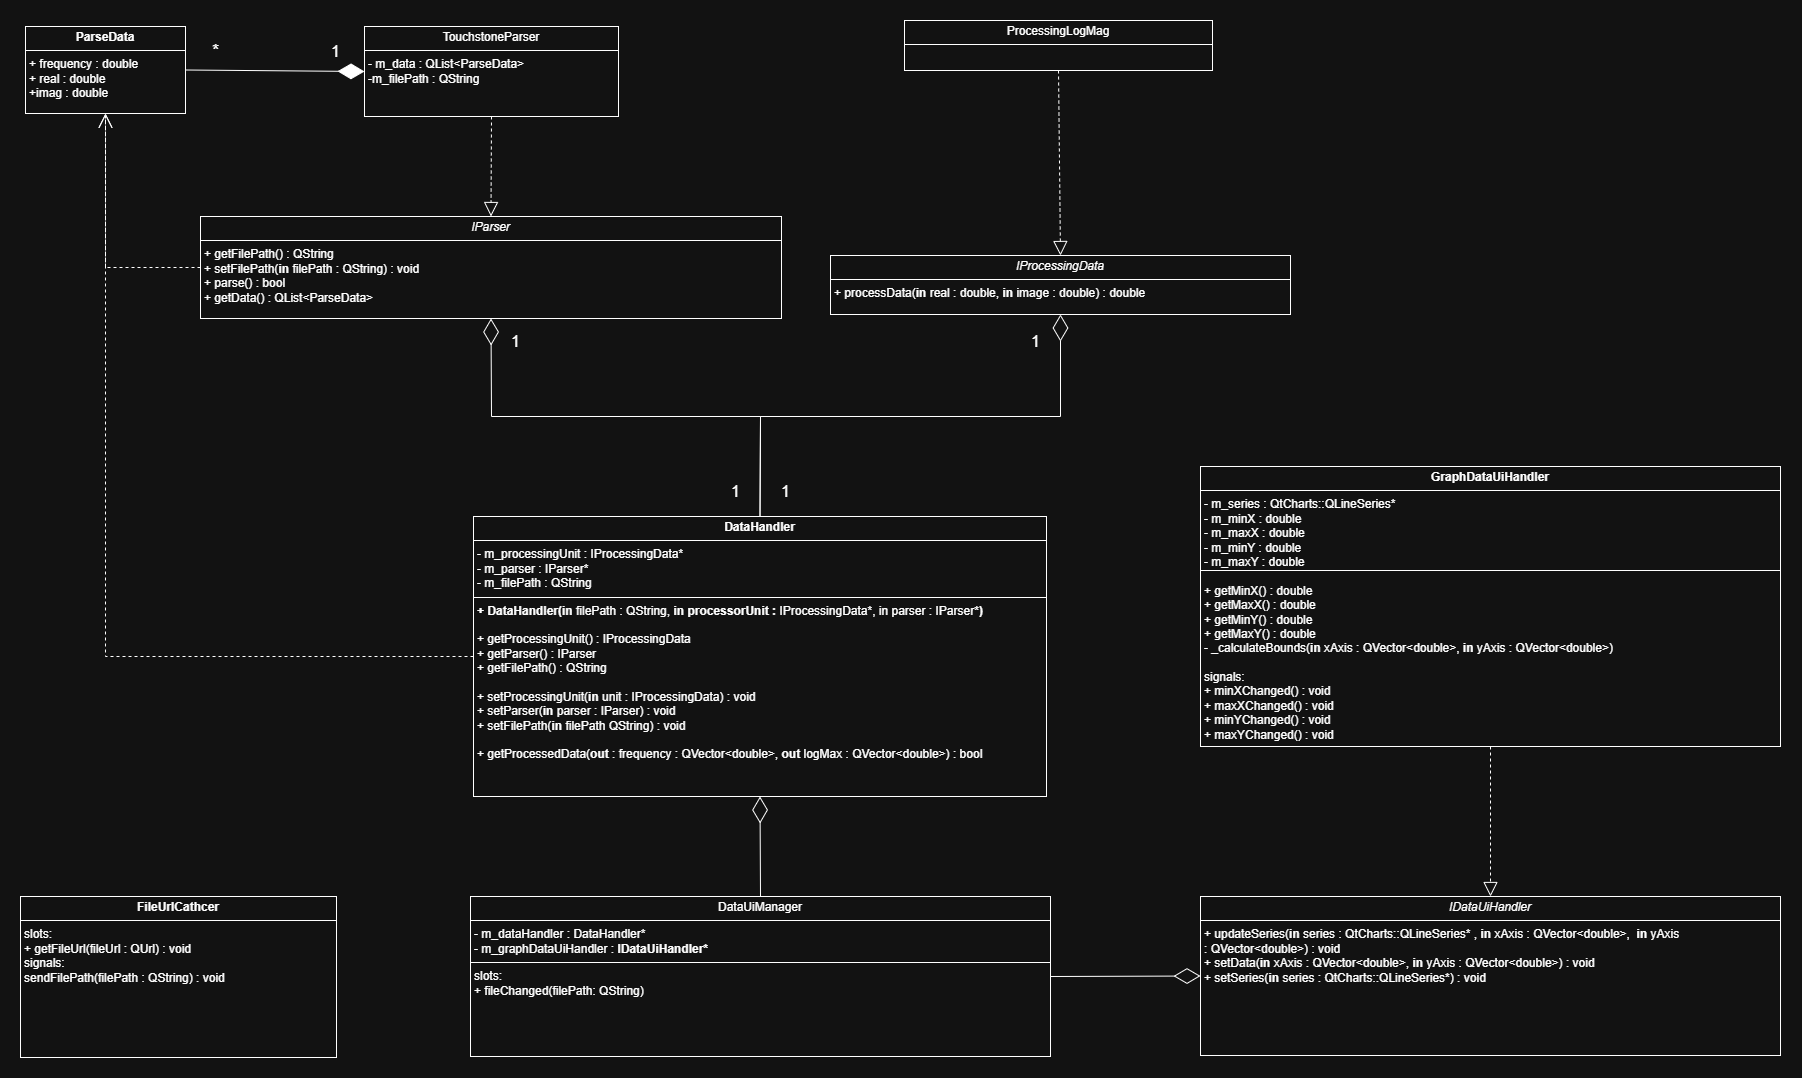
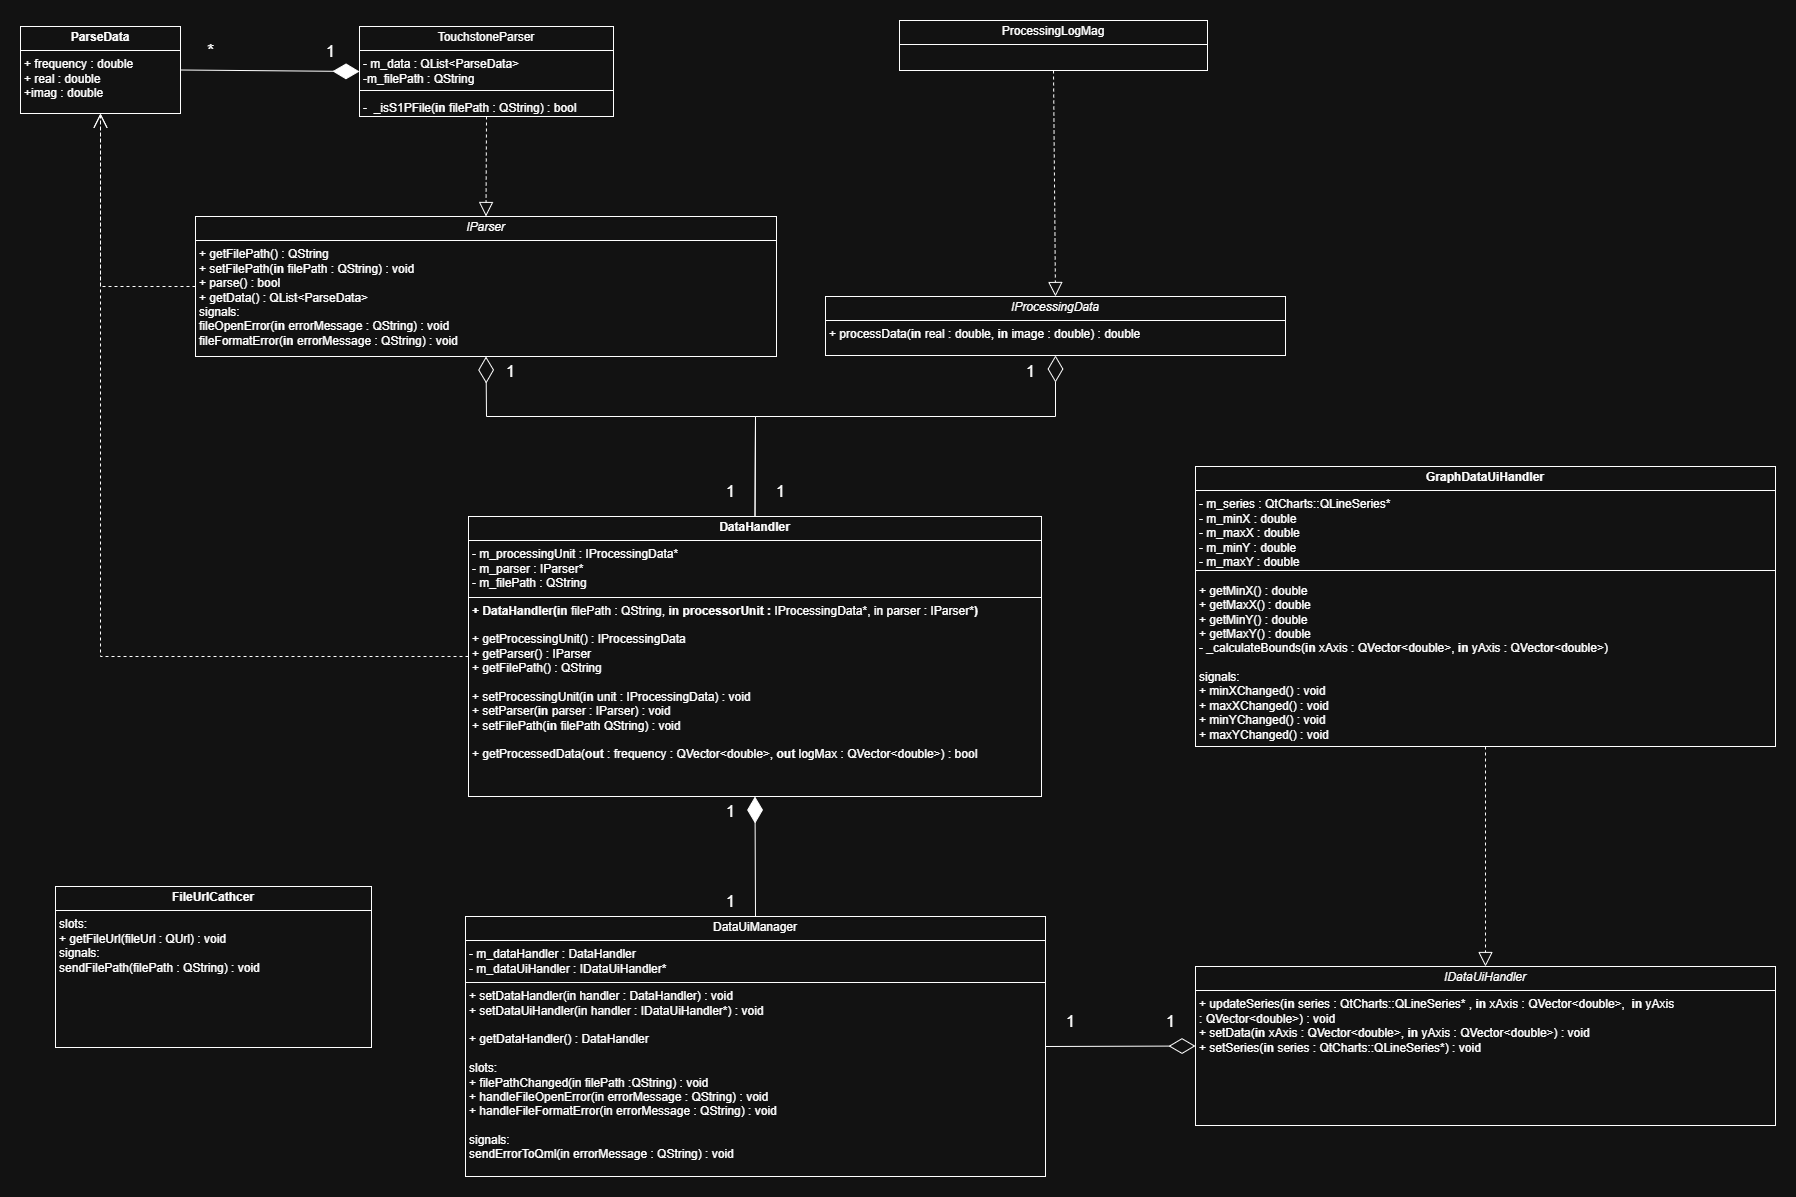
Глобальный рефакторинг и обновлена uml диаграмма :)

diff --git a/main.qml b/main.qml
@@ -57,7 +57,7 @@ ApplicationWindow {
                     objectName: "lineSeries"
                     axisX: axisX
                     axisY: axisY
-                    name: "Data"
+                    name: "Parsed Data"
                 }
 
                 Component.onCompleted: {

diff --git a/TouchstoneParser.cpp b/TouchstoneParser.cpp
@@ -1,19 +1,25 @@
-
 #include <QFile>
-#include <QDebug>
+#include <QFileInfo>
+#include <QTextStream>
 
 #include "TouchstoneParser.h"
 
 bool TouchstoneParser::parse() {
     QFile file(m_filePath);
 
+    if(!_isS1PFile(m_filePath)) {
+        emit fileFormatError("Incorrect file format: You can download only S1P files.");
+        return false;
+    }
+
     if(!file.open(QIODevice::ReadOnly | QIODevice::Text)) {
-        emit fileOpenError("can't open the file: " + m_filePath);
+        emit fileOpenError("Can't open the file: " + m_filePath);
         return false;
     }
 
     m_data.clear();
 
+    int lineNumber = 0;
     QTextStream in(&file);
     while (!in.atEnd()) {
         QString line = in.readLine();
@@ -23,7 +29,7 @@ bool TouchstoneParser::parse() {
 
         QStringList parts = line.split(' ', Qt::SkipEmptyParts);
         if (parts.size() != 3) {
-            emit fileFormatError("incorrect file format: in the line: " + line);
+            emit fileFormatError("Incorrect file format: in the line " + QString::number(lineNumber) + ": \n" + line);
             return false;
         }
 
@@ -33,7 +39,7 @@ bool TouchstoneParser::parse() {
         double imag = parts[2].toDouble(&convertImag);
 
         if(!convertFrequency || !convertReal || !convertImag) {
-            emit fileFormatError("Incorrect file format: could not be converted to a number in a string: " + line);
+            emit fileFormatError("Incorrect file format: can't convert to a number in line " + QString::number(lineNumber) + ": \n" + line);
             return false;
         }
 
@@ -41,8 +47,17 @@ bool TouchstoneParser::parse() {
                           real,
                           imag});
 
+        ++lineNumber;
     }
 
     file.close();
     return true;
+}
+
+bool TouchstoneParser::_isS1PFile(const QString& filePath) {
+    QFileInfo fileInfo(filePath);
+
+    QString extension = fileInfo.suffix().toLower();
+
+    return (extension == "s1p");
 }

diff --git a/DataUiManager.h b/DataUiManager.h
@@ -10,15 +10,10 @@ public:
     DataUiManager(DataHandler dataHandler = {}, IDataUiHandler* dataUiHandler = nullptr)
         : m_dataHandler(dataHandler), m_dataUiHandler(dataUiHandler)
     {}
+    ~DataUiManager() override = default;
 
     void setDataHandler(const DataHandler handler) {m_dataHandler = handler;}
-    void setDataUiHandler(IDataUiHandler* handler) {
-        m_dataUiHandler = handler;
-        if (m_dataUiHandler) {
-            connect(m_dataHandler.getParser(), &IParser::fileOpenError, this, &DataUiManager::handleFileOpenError);
-            connect(m_dataHandler.getParser(), &IParser::fileFormatError, this, &DataUiManager::handleFileFormatError);
-        }
-    }
+    void setDataUiHandler(IDataUiHandler* handler);
 
     const DataHandler& getDataHandler() const {return m_dataHandler;}
 

diff --git a/DataUiManager.cpp b/DataUiManager.cpp
@@ -1,14 +1,18 @@
-#include <QDebug>
-
 #include "DataUiManager.h"
 
+void DataUiManager::setDataUiHandler(IDataUiHandler* handler) {
+    m_dataUiHandler = handler;
+    if (m_dataUiHandler) {
+        connect(m_dataHandler.getParser(), &IParser::fileOpenError, this, &DataUiManager::handleFileOpenError);
+        connect(m_dataHandler.getParser(), &IParser::fileFormatError, this, &DataUiManager::handleFileFormatError);
+    }
+}
+
 void DataUiManager::filePathChanged(const QString filePath) {
-    qDebug() << "filePathChanged starded";
     if(filePath.isEmpty()) {
         m_dataUiHandler->setData({}, {});
     }
 
-    qDebug() << filePath;
     QVector<double> xAxis, yAxis;
 
     m_dataHandler.setFilePath(filePath);

diff --git a/FileUrlCatcher.h b/FileUrlCatcher.h
@@ -2,19 +2,18 @@
 #define FILEURLCATCHER_H
 
 #include <QObject>
-#include <QDebug>
 #include <QUrl>
 
 class FileUrlCatcher : public QObject {
     Q_OBJECT
 public:
     FileUrlCatcher() = default;
+    ~FileUrlCatcher() override = default;
 
 public slots:
     void getFileUrl(const QUrl& fileUrl) {
         QString filePath = fileUrl.toLocalFile();
         emit sendFilePath(filePath);
-        qDebug() << "FileUrlCatcher:" << filePath;
     }
 
 signals:

diff --git a/DataHandler.cpp b/DataHandler.cpp
@@ -1,5 +1,3 @@
-#include <QDebug>
-
 #include "DataHandler.h"
 
 DataHandler::DataHandler(const QString& filePath, IParser* parser, IProcessingData* processingUnit)
@@ -27,7 +25,6 @@ void DataHandler::setParser(IParser* parser) {
 
 bool DataHandler::getProcessedData(QVector<double>& frequency, QVector<double>& logMax) {
     if(!m_parser || !m_processingUnit) {
-        //TODO: emit
         return false;
     }
 

diff --git a/DataHandler.h b/DataHandler.h
@@ -9,6 +9,7 @@
 class DataHandler {
 public:
     DataHandler(const QString& filePath = "", IParser* parser = nullptr, IProcessingData* processingUnit = nullptr);
+    ~DataHandler() = default;
 
     QString getFilePath() const {return m_filePath;}
     IProcessingData* getProcessingUnit() const {return m_processingUnit;}

diff --git a/TouchstoneParser.h b/TouchstoneParser.h
@@ -19,6 +19,9 @@ public:
     QList<ParseData> getParsedData() const override {return m_data;}
 
 private:
+    bool _isS1PFile(const QString& filePath);
+
+private:
     QString m_filePath = "";
     QList<ParseData> m_data = {};
 };

diff --git a/ProcessingLogMag.h b/ProcessingLogMag.h
@@ -5,6 +5,7 @@
 
 class ProcessingLogMag : public IProcessingData {
 public:
+    ProcessingLogMag() = default;
     ~ProcessingLogMag() override = default;
 
     double processData(const double real, const double imag) override;

diff --git a/ProcessingLogMag.cpp b/ProcessingLogMag.cpp
@@ -1,5 +1,4 @@
 #include <math.h>
-#include <QDebug>
 
 #include "ProcessingLogMag.h"
 
